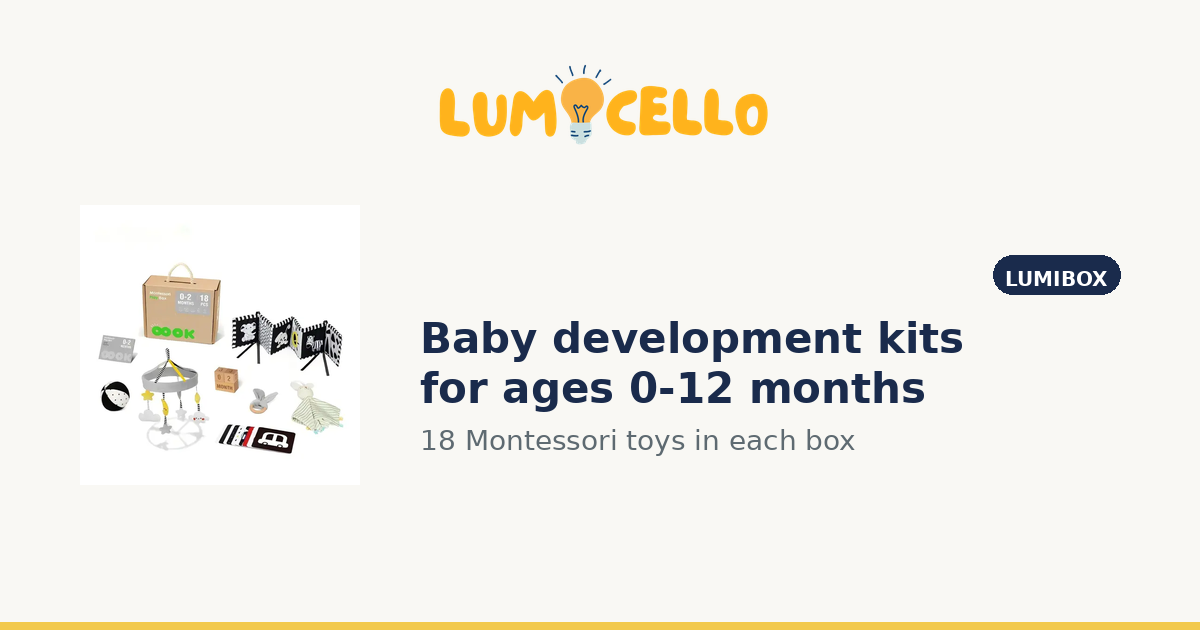
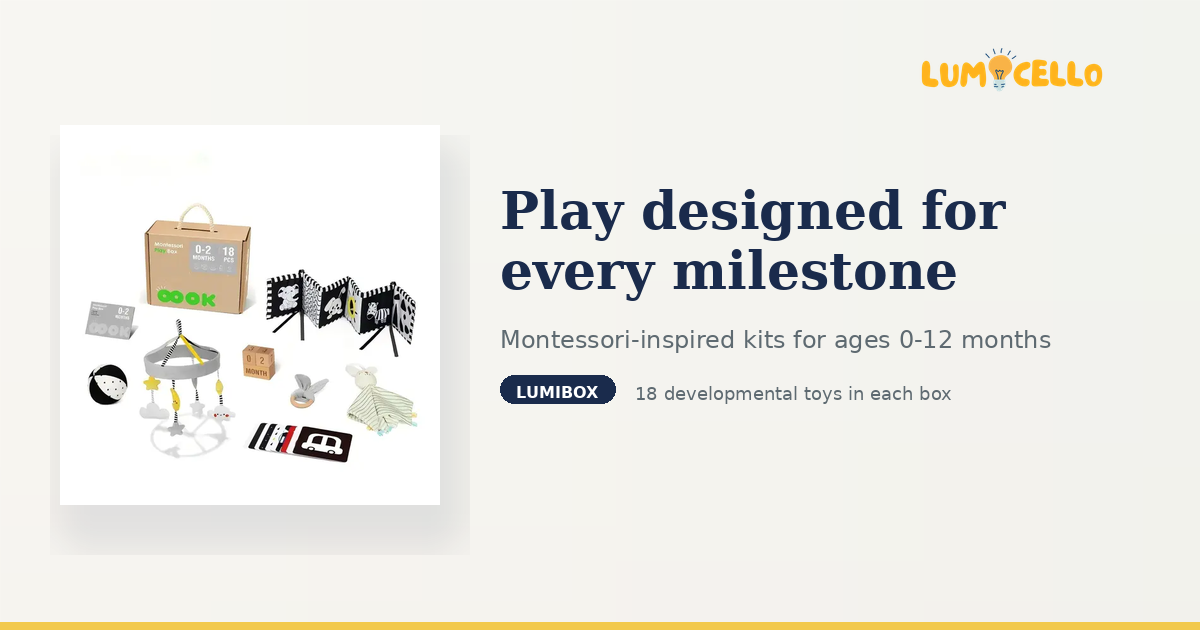
Redesign OG image with emotional appeal and premium feel
- Large, prominent product image with soft shadow
- Warm gradient background using brand colors
- Emotional headline: "Play designed for every milestone"
- Clear value prop: "Montessori-inspired kits for ages 0-12 months"
- LumiBox badge with toy count detail
- Smaller logo positioned in top right
- Optimized file size (130KB, under 150KB best practice)

Design follows OG image best practices:
- Text under 20% of image area
- Product-focused layout
- Clear visual hierarchy
- Readable at small preview sizes

diff --git a/scripts/create_og_image.py b/scripts/create_og_image.py
@@ -2,9 +2,14 @@
 """
 Create OpenGraph image for Lumicello website.
 Dimensions: 1200x630 (recommended for Facebook, LINE, Telegram)
+
+Design Philosophy: "Warm Intelligence"
+- Emotionally appealing for parents
+- Premium but approachable
+- Product-focused with clear value proposition
 """
 
-from PIL import Image, ImageDraw, ImageFont
+from PIL import Image, ImageDraw, ImageFont, ImageFilter
 import os
 
 # Paths
@@ -17,110 +22,243 @@ OUTPUT_PATH = os.path.join(ASSETS_DIR, 'og-image.png')
 WIDTH = 1200
 HEIGHT = 630
 
-# Colors from brand
-SOFT_CANVAS = (249, 248, 244)  # #F9F8F4 - main background
-JEFFERSON_BLUE = (26, 43, 76)  # #1A2B4C - primary
-LUMEN_GOLD = (242, 201, 76)    # #F2C94C - accent
+# Brand Colors (from variables.css)
+JEFFERSON_BLUE = (26, 43, 76)       # #1A2B4C - primary text
+LUMEN_GOLD = (242, 201, 76)         # #F2C94C - accent
+SOFT_CANVAS = (249, 248, 244)       # #F9F8F4 - main background
+SAGE_WHISPER = (230, 235, 230)      # #E6EBE6 - calm, nature
+PALE_CLAY = (240, 230, 221)         # #F0E6DD - warm, tactile
+MIST_BLUE = (227, 242, 245)         # #E3F2F5 - curiosity
+TEXT_SECONDARY = (94, 106, 113)     # #5E6A71
+
+
+def create_warm_gradient_background(width, height):
+    """Create a warm, organic gradient background."""
+    img = Image.new('RGB', (width, height), SOFT_CANVAS)
+    draw = ImageDraw.Draw(img)
+
+    # Create subtle warm gradient from top-left to bottom-right
+    for y in range(height):
+        for x in range(width):
+            # Calculate gradient factors
+            factor_x = x / width
+            factor_y = y / height
+
+            # Blend colors organically
+            r = int(SOFT_CANVAS[0] * 0.7 + PALE_CLAY[0] * 0.2 * factor_x + SAGE_WHISPER[0] * 0.1 * factor_y)
+            g = int(SOFT_CANVAS[1] * 0.7 + PALE_CLAY[1] * 0.2 * factor_x + SAGE_WHISPER[1] * 0.1 * factor_y)
+            b = int(SOFT_CANVAS[2] * 0.7 + PALE_CLAY[2] * 0.2 * factor_x + SAGE_WHISPER[2] * 0.1 * factor_y)
+
+            # Clamp values
+            r = min(255, max(0, r))
+            g = min(255, max(0, g))
+            b = min(255, max(0, b))
+
+            img.putpixel((x, y), (r, g, b))
+
+    return img
+
+
+def create_simple_warm_background(width, height):
+    """Create a simple warm background with subtle color blocks."""
+    img = Image.new('RGB', (width, height), SOFT_CANVAS)
+    draw = ImageDraw.Draw(img)
+
+    # Add a subtle warm overlay on the left side
+    for x in range(width // 3):
+        alpha = 0.15 * (1 - x / (width // 3))
+        for y in range(height):
+            orig = SOFT_CANVAS
+            r = int(orig[0] * (1 - alpha) + PALE_CLAY[0] * alpha)
+            g = int(orig[1] * (1 - alpha) + PALE_CLAY[1] * alpha)
+            b = int(orig[2] * (1 - alpha) + PALE_CLAY[2] * alpha)
+            img.putpixel((x, y), (r, g, b))
+
+    # Add subtle sage tint on right side
+    for x in range(width * 2 // 3, width):
+        alpha = 0.1 * ((x - width * 2 // 3) / (width // 3))
+        for y in range(height):
+            orig = img.getpixel((x, y))
+            r = int(orig[0] * (1 - alpha) + SAGE_WHISPER[0] * alpha)
+            g = int(orig[1] * (1 - alpha) + SAGE_WHISPER[1] * alpha)
+            b = int(orig[2] * (1 - alpha) + SAGE_WHISPER[2] * alpha)
+            img.putpixel((x, y), (r, g, b))
+
+    return img
+
+
+def add_decorative_shapes(img, draw):
+    """Add subtle decorative shapes for visual interest."""
+    # Soft gold accent circle (top right area)
+    gold_with_alpha = (*LUMEN_GOLD, 40)  # Very subtle
+
+    # Draw a large soft circle in top right
+    circle_x, circle_y = WIDTH - 150, -50
+    circle_radius = 200
+    for i in range(circle_radius, 0, -1):
+        alpha = int(25 * (i / circle_radius))
+        color = (LUMEN_GOLD[0], LUMEN_GOLD[1], LUMEN_GOLD[2])
+        # We'll skip this for simplicity - PIL doesn't support alpha drawing easily
+
+    # Add bottom accent bar (gold)
+    draw.rectangle([0, HEIGHT - 6, WIDTH, HEIGHT], fill=LUMEN_GOLD)
+
+    return img
+
 
 def create_og_image():
-    # Create base image with soft canvas background
+    """Create the main OG image."""
+    # Create background with warm tones
     img = Image.new('RGB', (WIDTH, HEIGHT), SOFT_CANVAS)
     draw = ImageDraw.Draw(img)
 
-    # Load logo
-    logo_path = os.path.join(ASSETS_DIR, 'lumicello_logo.png')
-    if os.path.exists(logo_path):
-        logo = Image.open(logo_path)
-        # Resize logo to fit nicely (max 400px wide)
-        logo_width = 400
-        logo_ratio = logo_width / logo.width
-        logo_height = int(logo.height * logo_ratio)
-        logo = logo.resize((logo_width, logo_height), Image.Resampling.LANCZOS)
+    # Simple warm background - subtle gradient effect
+    # Left side: slight clay warmth, Right side: slight sage
+    for x in range(WIDTH):
+        for y in range(HEIGHT):
+            # Create subtle horizontal gradient
+            factor = x / WIDTH
+            r = int(SOFT_CANVAS[0] + (SAGE_WHISPER[0] - SOFT_CANVAS[0]) * factor * 0.3)
+            g = int(SOFT_CANVAS[1] + (SAGE_WHISPER[1] - SOFT_CANVAS[1]) * factor * 0.3)
+            b = int(SOFT_CANVAS[2] + (SAGE_WHISPER[2] - SOFT_CANVAS[2]) * factor * 0.3)
 
-        # Position logo at top center
-        logo_x = (WIDTH - logo_width) // 2
-        logo_y = 50
+            # Add subtle vertical warmth
+            v_factor = y / HEIGHT
+            r = int(r + (PALE_CLAY[0] - r) * v_factor * 0.15)
+            g = int(g + (PALE_CLAY[1] - g) * v_factor * 0.15)
+            b = int(b + (PALE_CLAY[2] - b) * v_factor * 0.15)
 
-        # Handle transparency
-        if logo.mode == 'RGBA':
-            img.paste(logo, (logo_x, logo_y), logo)
-        else:
-            img.paste(logo, (logo_x, logo_y))
+            img.putpixel((x, y), (r, g, b))
 
-    # Load product image
+    draw = ImageDraw.Draw(img)
+
+    # Load fonts
+    try:
+        font_headline = ImageFont.truetype('/usr/share/fonts/truetype/dejavu/DejaVuSerif-Bold.ttf', 52)
+        font_subhead = ImageFont.truetype('/usr/share/fonts/truetype/dejavu/DejaVuSans.ttf', 24)
+        font_badge = ImageFont.truetype('/usr/share/fonts/truetype/dejavu/DejaVuSans-Bold.ttf', 16)
+        font_small = ImageFont.truetype('/usr/share/fonts/truetype/dejavu/DejaVuSans.ttf', 18)
+    except OSError:
+        font_headline = ImageFont.load_default()
+        font_subhead = ImageFont.load_default()
+        font_badge = ImageFont.load_default()
+        font_small = ImageFont.load_default()
+
+    # Load and place product image - LARGE and prominent
     product_path = os.path.join(ASSETS_DIR, 'lumibox', 'box_0-2.webp')
     if os.path.exists(product_path):
         product = Image.open(product_path)
-        # Resize product image
-        product_size = 280
-        product_ratio = product_size / max(product.width, product.height)
+
+        # Make product image large - hero size
+        product_max_size = 380
+        product_ratio = product_max_size / max(product.width, product.height)
         product_width = int(product.width * product_ratio)
         product_height = int(product.height * product_ratio)
         product = product.resize((product_width, product_height), Image.Resampling.LANCZOS)
 
-        # Position product on left side
-        product_x = 80
-        product_y = (HEIGHT - product_height) // 2 + 30
+        # Position product on left side, vertically centered
+        product_x = 60
+        product_y = (HEIGHT - product_height) // 2
 
-        # Handle transparency
+        # Add soft shadow behind product
+        shadow = Image.new('RGBA', (product_width + 40, product_height + 40), (0, 0, 0, 0))
+        shadow_draw = ImageDraw.Draw(shadow)
+        shadow_draw.rounded_rectangle(
+            [10, 10, product_width + 30, product_height + 30],
+            radius=20,
+            fill=(26, 43, 76, 25)
+        )
+        shadow = shadow.filter(ImageFilter.GaussianBlur(radius=15))
+
+        # Paste shadow
+        img.paste(shadow, (product_x - 10, product_y + 10), shadow)
+
+        # Paste product
         if product.mode == 'RGBA':
             img.paste(product, (product_x, product_y), product)
         else:
             img.paste(product, (product_x, product_y))
 
-    # Add text - use default font since we may not have the brand fonts available
-    try:
-        # Try to load a nice font if available
-        title_font = ImageFont.truetype('/usr/share/fonts/truetype/dejavu/DejaVuSans-Bold.ttf', 42)
-        subtitle_font = ImageFont.truetype('/usr/share/fonts/truetype/dejavu/DejaVuSans.ttf', 28)
-        badge_font = ImageFont.truetype('/usr/share/fonts/truetype/dejavu/DejaVuSans-Bold.ttf', 20)
-    except OSError:
-        title_font = ImageFont.load_default()
-        subtitle_font = ImageFont.load_default()
-        badge_font = ImageFont.load_default()
+    # Load and place logo - smaller, top right
+    logo_path = os.path.join(ASSETS_DIR, 'lumicello_logo.png')
+    if os.path.exists(logo_path):
+        logo = Image.open(logo_path)
+        logo_width = 220
+        logo_ratio = logo_width / logo.width
+        logo_height = int(logo.height * logo_ratio)
+        logo = logo.resize((logo_width, logo_height), Image.Resampling.LANCZOS)
 
-    # Draw badge background
-    badge_text = 'LUMIBOX'
-    badge_bbox = draw.textbbox((0, 0), badge_text, font=badge_font)
+        logo_x = WIDTH - logo_width - 80
+        logo_y = 40
+
+        if logo.mode == 'RGBA':
+            img.paste(logo, (logo_x, logo_y), logo)
+        else:
+            img.paste(logo, (logo_x, logo_y))
+
+    # Text content - right side
+    text_x = 500
+    text_area_width = WIDTH - text_x - 80
+
+    # Main headline - emotional, benefit-focused
+    headline = "Play designed for"
+    headline2 = "every milestone"
+
+    # Position headline
+    headline_y = 180
+    draw.text((text_x, headline_y), headline, font=font_headline, fill=JEFFERSON_BLUE)
+    draw.text((text_x, headline_y + 60), headline2, font=font_headline, fill=JEFFERSON_BLUE)
+
+    # Subheadline - clear value prop
+    subhead = "Montessori-inspired kits for ages 0-12 months"
+    subhead_y = headline_y + 145
+    draw.text((text_x, subhead_y), subhead, font=font_subhead, fill=TEXT_SECONDARY)
+
+    # LumiBox badge - pill shape
+    badge_text = "LUMIBOX"
+    badge_bbox = draw.textbbox((0, 0), badge_text, font=font_badge)
     badge_width = badge_bbox[2] - badge_bbox[0]
     badge_height = badge_bbox[3] - badge_bbox[1]
-    badge_padding = 12
-    badge_x = WIDTH - badge_width - badge_padding * 2 - 80
-    badge_y = HEIGHT // 2 - 60
+    badge_padding_x = 16
+    badge_padding_y = 8
 
-    # Draw rounded badge
+    badge_x = text_x
+    badge_y = subhead_y + 50
+
+    # Draw pill-shaped badge
     draw.rounded_rectangle(
-        [badge_x, badge_y, badge_x + badge_width + badge_padding * 2, badge_y + badge_height + badge_padding * 2],
+        [badge_x, badge_y,
+         badge_x + badge_width + badge_padding_x * 2,
+         badge_y + badge_height + badge_padding_y * 2],
         radius=20,
         fill=JEFFERSON_BLUE
     )
     draw.text(
-        (badge_x + badge_padding, badge_y + badge_padding),
+        (badge_x + badge_padding_x, badge_y + badge_padding_y),
         badge_text,
-        font=badge_font,
+        font=font_badge,
         fill=(255, 255, 255)
     )
 
-    # Main title text
-    title_lines = ['Baby development kits', 'for ages 0-12 months']
-    title_y = badge_y + badge_height + badge_padding * 2 + 20
-    text_x = 420
+    # "18 toys in each box" - small detail
+    detail_text = "18 developmental toys in each box"
+    detail_x = badge_x + badge_width + badge_padding_x * 2 + 20
+    detail_y = badge_y + badge_padding_y
+    draw.text((detail_x, detail_y), detail_text, font=font_small, fill=TEXT_SECONDARY)
 
-    for line in title_lines:
-        draw.text((text_x, title_y), line, font=title_font, fill=JEFFERSON_BLUE)
-        title_y += 50
-
-    # Subtitle
-    subtitle = '18 Montessori toys in each box'
-    draw.text((text_x, title_y + 10), subtitle, font=subtitle_font, fill=(94, 106, 113))
-
-    # Add accent bar at bottom
+    # Bottom gold accent bar
     draw.rectangle([0, HEIGHT - 8, WIDTH, HEIGHT], fill=LUMEN_GOLD)
 
-    # Save
-    img.save(OUTPUT_PATH, 'PNG', quality=95)
+    # Save with optimization
+    img.save(OUTPUT_PATH, 'PNG', optimize=True)
     print(f'OG image created: {OUTPUT_PATH}')
+
+    # Check file size
+    file_size = os.path.getsize(OUTPUT_PATH)
+    print(f'File size: {file_size / 1024:.1f} KB')
+
     return OUTPUT_PATH
+
 
 if __name__ == '__main__':
     create_og_image()
